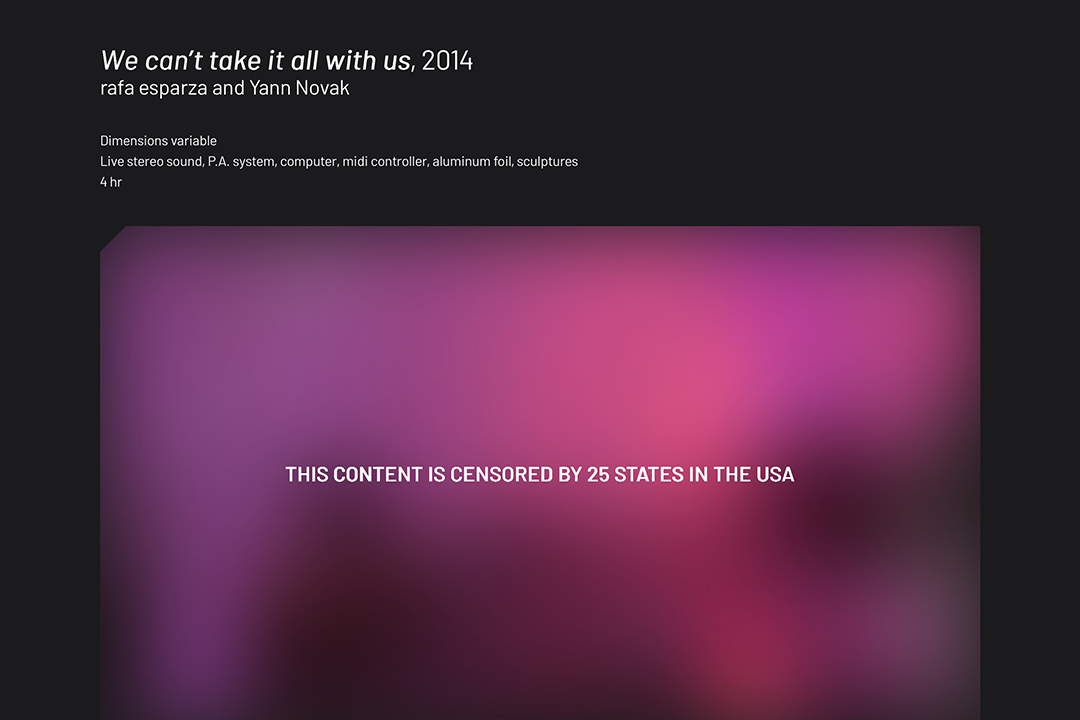
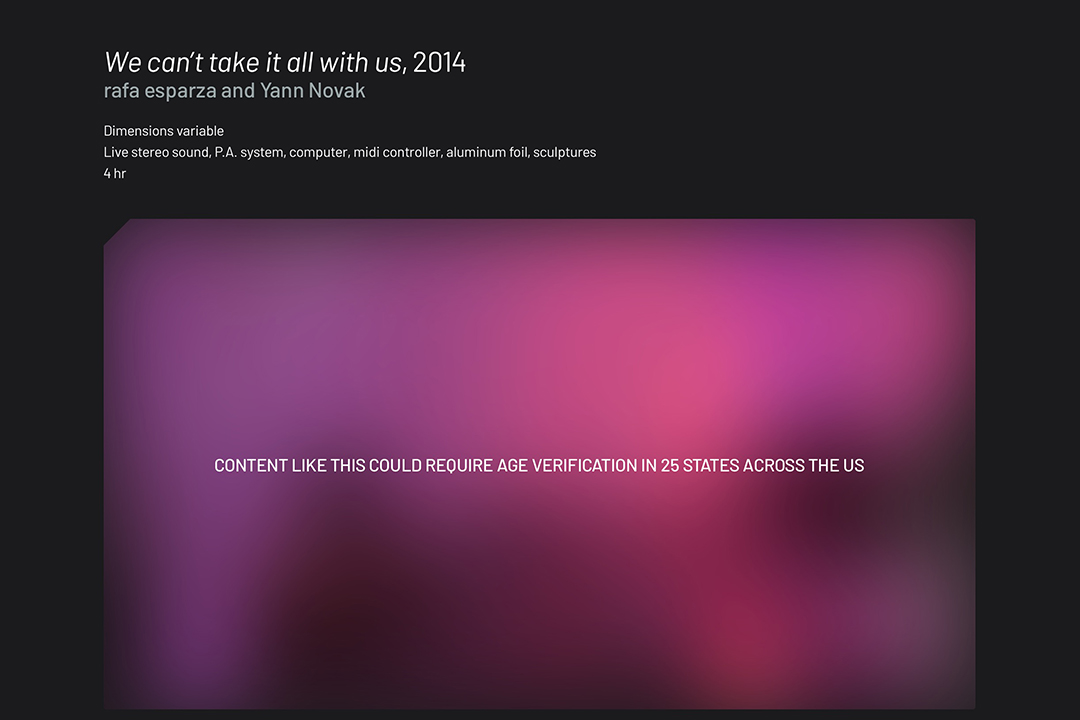
Language change and updated thumbnail

diff --git a/index.html b/index.html
@@ -80,7 +80,7 @@
                 target="_blank" rel="noopener">Rip Space</a> workshop “Censored Online, Thriving Offline.” It explores how age
             verification laws might impact individual artists sharing work that may contain borderline content.
         </p>
-        <p>View the source code on <a href="https://github.com/yannnovak/we-cant-take-it-all-with-us" target="_blank" rel="noopener">GitHub</a>.</p>
+        <p>View the source code and learn more on <a href="https://github.com/yannnovak/we-cant-take-it-all-with-us" target="_blank" rel="noopener">GitHub</a>.</p>
     </main>
     <script src="/assets/js/main.js"></script>
 </body>

diff --git a/README.md b/README.md
@@ -8,8 +8,8 @@
 
 ## ✨ Features
 
-- Censorship notice and blur effect when online
-- When offline, censorship notice and blur are automatically removed
+- Age verification notice and blur effect when online
+- When offline, age verification notice and blur are automatically removed
 
 &nbsp;
 
@@ -22,8 +22,8 @@ You can view the artwork here:
 
 ## 🕹 Usage
 
-- Visit the website online to see the censorship notice and blur effect.
-- Disconnect from the internet (go offline) to see the censorship notice and blur removed automatically.
+- Visit the website online to see the age verification notice and blur effect.
+- Disconnect from the internet (go offline) to see the age verification notice and blur removed automatically.
 
 &nbsp;
 
@@ -49,6 +49,6 @@ You can view the artwork here:
 
 ## ℹ About the Project
 
-This project was created as part of the “Censored Online, Thriving Offline” workshop hosted by [rip_space](https://rip.space).  
+This project was created as part of the “Censored Online, Thriving Offline” workshop hosted by [rip_space](https://rip.space).
 Special thanks to Maisa Imamović for leading the workshop and for providing the original offline-script.js, which I adapted for this project.  
 For other uses, please contact Yann Novak.
